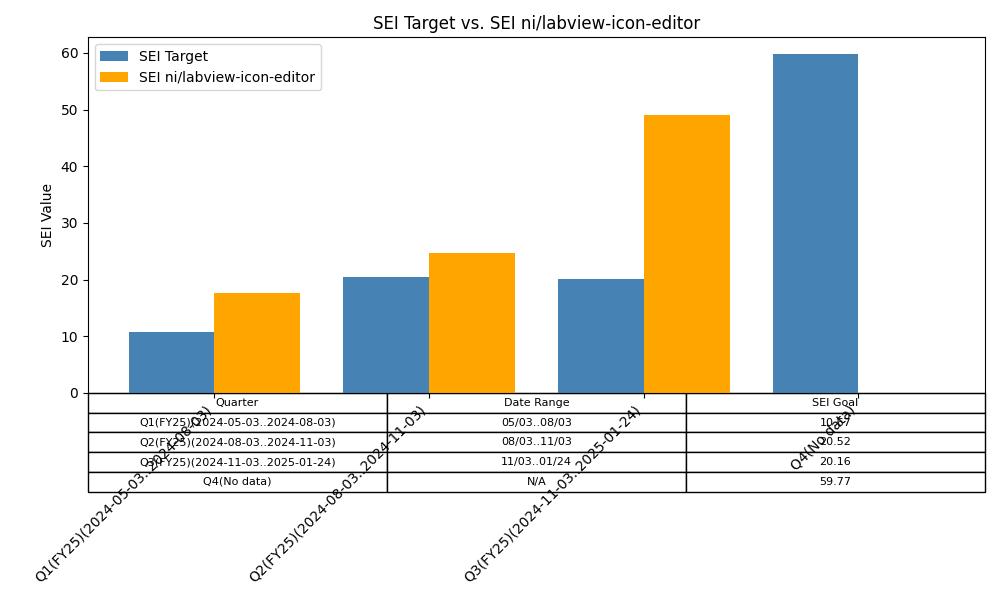
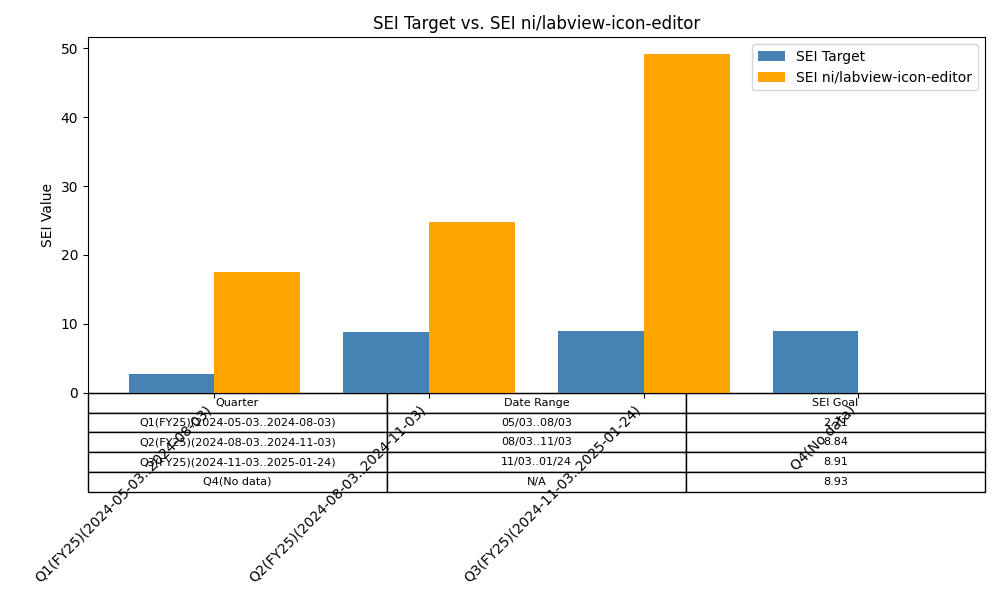
Setting scale window to 10 only for debug purposes

diff --git a/KPIs/python/kpi_analytics/scale_factors.py b/KPIs/python/kpi_analytics/scale_factors.py
@@ -43,7 +43,7 @@ def compute_scale_factors(scaling_repo, all_repos):
     """
 
     # We'll define window=120 days. Adjust if needed or read from config.
-    window_days = 120
+    window_days = 10
 
     # Prepare result dictionaries
     mergesFactor = {}
